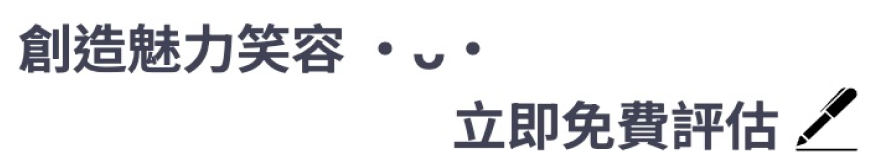
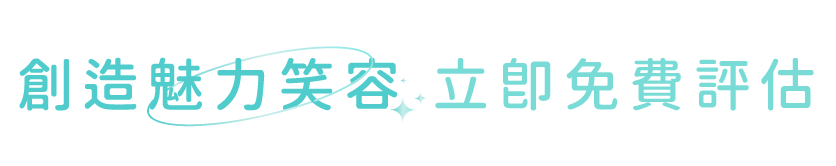
樣式修改

Changed region(s): [[0.0, 0.1205, 0.9952, 0.9337], [0.1866, 0.6928, 0.311, 0.7831], [0.1555, 0.6928, 0.1866, 0.7229]]

diff --git a/index.html b/index.html
@@ -10,6 +10,11 @@
         href="https://fonts.googleapis.com/css2?family=Inter:ital,opsz,wght@0,14..32,100..900;1,14..32,100..900&family=Noto+Sans+TC:wght@100..900&display=swap"
         rel="stylesheet">
     <title>OLigner TW丨開啟微笑旅程</title>
+    <style>
+      .container {
+          top: -1600px;
+      }
+    </style>
     <link rel="stylesheet" href="css/style.css">
 </head>
 
@@ -18,7 +23,7 @@
         <img id="banner-image" src="banner/image01.jpg" alt="">
         <!-- 尺寸 836px 498px-->
     </div>
-    <div class="container">
+    <div class="container index">
         <!-- <h1 class="title">創造魅力笑容 •ᴗ• <p style="text-align: right;">立即免費評估 <img src="images/pen.svg" alt=""></p>
         </h1> -->
         <div class="titles"> <img src="banner/image02.png" alt="" srcset=""></div>

diff --git a/css/back.css b/css/back.css
@@ -159,8 +159,17 @@ body * {
   border-radius: 20px;
   padding: 25px;
   position: relative;
-  top: -20px;
   line-height: 28px;
+  z-index: 1000;
+  top: -200px;
+}
+.container.index {
+  top: -1600px;
+}
+@media screen and (max-width: 768px) {
+  .container.index {
+    top: -270px;
+  }
 }
 @media screen and (max-width: 768px) {
   .container {
@@ -177,7 +186,7 @@ select {
 }
 
 .banner {
-  max-width: 836px;
+  max-width: 100%;
   width: 100%;
   height: auto;
   margin-left: auto;

diff --git a/css/style.css b/css/style.css
@@ -159,8 +159,17 @@ body * {
   border-radius: 20px;
   padding: 25px;
   position: relative;
-  top: -20px;
   line-height: 28px;
+  z-index: 1000;
+  top: -200px;
+}
+.container.index {
+  top: -1600px;
+}
+@media screen and (max-width: 768px) {
+  .container.index {
+    top: -270px;
+  }
 }
 @media screen and (max-width: 768px) {
   .container {
@@ -177,7 +186,7 @@ select {
 }
 
 .banner {
-  max-width: 836px;
+  max-width: 100%;
   width: 100%;
   height: auto;
   margin-left: auto;

diff --git a/sass/layout/_body.scss b/sass/layout/_body.scss
@@ -17,10 +17,18 @@ body {
     border-radius: 20px;
     padding: 25px;
     position: relative;
-    top: -20px;
     line-height: 28px;
+    z-index: 1000;
+    top:-200px;
+    &.index {
+       top : -1600px;
+       @include m(){
+         top: -270px;
+       }
+    
+    }
     @include m(){
-      margin-top: -110px;
+       margin-top: -110px;
        border-radius: 0px;
     }
     // box-shadow: 1px 1px 10px #d8d8d8;

diff --git a/sass/layout/_banner.scss b/sass/layout/_banner.scss
@@ -1,5 +1,5 @@
 .banner {
-  @include layout(836px, auto);
+  @include layout(100%, auto);
   @include m() {
      @include layout(100%, null);
   }
